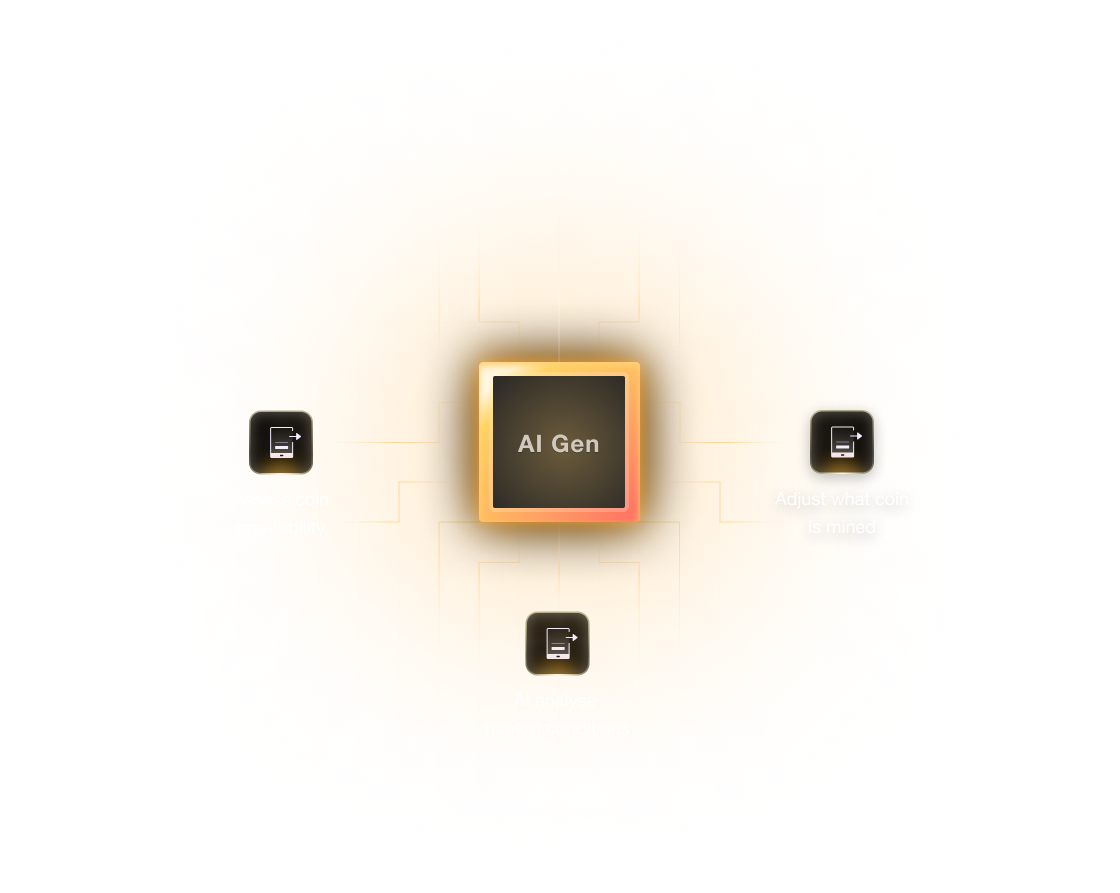
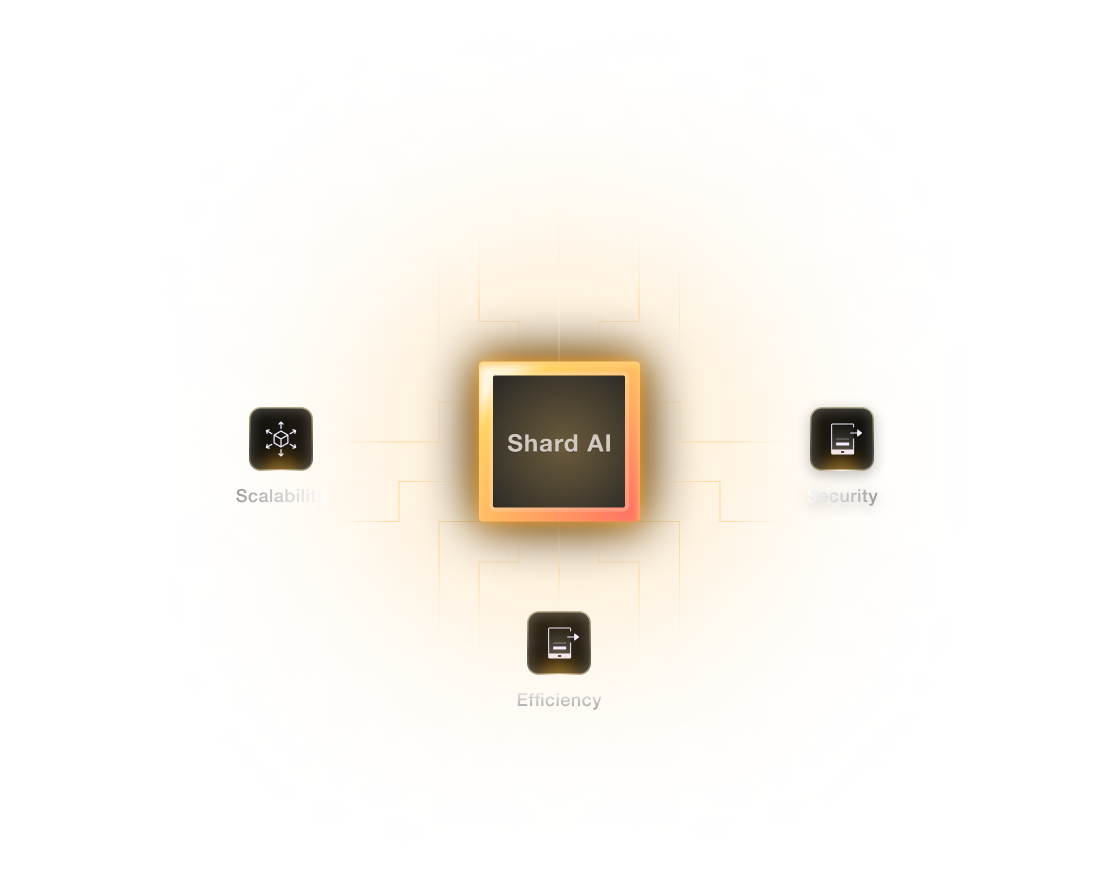
feat: update content

diff --git a/src/components/collaborate/collaborate.js b/src/components/collaborate/collaborate.js
@@ -72,14 +72,15 @@ const Collaborate = () => {
           >
             <div className="w-full p-[24px] flex flex-col gap-[24px] items-center">
               <div className="text-[#fff] text-[20px] font-medium leading-[28px]">
-                Pioneering Cryptocurrency Mining Through AI Innovation
+                Auto Rebasing
               </div>
               <div className="text-[rgba(255,255,255,0.66)] text-[14px] font-light leading-[22px] tracking-[0.2px] flex flex-col items-center">
-                At the forefront of the cryptocurrency realm, AI-driven mining
-                facility signifies a groundbreaking shift. By combining
-                AI-optimized mining, sustainable practices, and community
-                involvement, AI Gen emerges as a trailblazer in innovation and
-                efficiency.
+                $cSHARD token is is natively rebasing on the Shard Chain: The
+                yield for $cSHARD comes from mining protocol. $cSHARD can be
+                redeemed for $cSHARD and stablecoin when bridging back to
+                Ethereum. Smart contracts can opt-in to this rebasing, making it
+                easy to existing Dapps to deploy on Shard Chain without any
+                changes.
                 <div className="w-[263px] h-[157px] relative">
                   <div className="w-[263px] h-[197px] absolute bottom-[-40px] left-0 ">
                     <Image
@@ -90,15 +91,6 @@ const Collaborate = () => {
                     />
                   </div>
                 </div>
-              </div>
-            </div>
-            <div className="w-full p-[24px] flex flex-col gap-[24px]">
-              <div className="text-[#fff] text-[20px] font-medium leading-[28px]">
-                Explore Limitless Mining Opportunities
-              </div>
-              <div className="text-[rgba(255,255,255,0.66)] text-[14px] font-light leading-[22px] tracking-[0.2px]">
-                Join us at AI Gen and discover how the fusion of AI and
-                cryptocurrency mining opens doors to endless possibilities.
               </div>
             </div>
           </motion.div>

diff --git a/src/components/collaborate/Contact.js b/src/components/collaborate/Contact.js
@@ -66,7 +66,7 @@ const Contact = () => {
             })}
           </div>
           <div className="text-[#676D79] md:text-[16px] text-[14px] font-normal leading-[20px] md:leading-[24px] py-[16px]">
-            © AI Gen 2024, All Rights Reserved.
+            © Shard AI 2024, All Rights Reserved.
           </div>
         </motion.div>
       </div>
